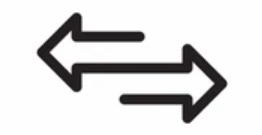
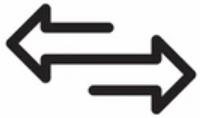
Updated Design Elements

Changed region(s): [[0.0, 0.0254, 0.99, 0.9915]]

diff --git a/language_translator.py b/language_translator.py
@@ -9,6 +9,7 @@ root.title("Language Translator")
 root.geometry("1080x400")
 
 
+
 #function to change country names in labels
 def label_change():
 	c = combo1.get()
@@ -37,14 +38,18 @@ def translate_now():
 		messagebox.showerror("googletrans","please try again")
 
 
+
+
+
+
 #icon
 image_icon = PhotoImage(file="trans_pic.png")
 root.iconphoto(False,image_icon)
 
 #arrow
-arrow_image = PhotoImage(file="arrow_pic.png")
-image_label=Label(root, image=arrow_image,width=150)
-image_label.place(x=460, y=50)
+arrow_image = PhotoImage(file="bl.png")
+image_label=Label(root, image=arrow_image,width=55, height=50)
+image_label.place(x=510, y=150)
 
 language = googletrans.LANGUAGES
 languageV = list(language.values())
@@ -57,7 +62,7 @@ combo1.set("English")
 
 
 #Label Under selection Bar
-label1 = Label(root, text = "English", font="segoe 30 bold", bg = "white", width = 18, bd = 5, 
+label1 = Label(root, text = "English", font="ComicSansMS 30 bold", bg = "skyblue", width = 18, bd = 5, 
 				relief = GROOVE)
 label1.place(x=10, y=50)
 
@@ -80,14 +85,14 @@ text1.configure(yscrollcommand=scrollbar1.set)
 
 
 
-#Right side language slection bar
+#Right side language selection bar
 combo2 = ttk.Combobox(root, values = languageV, font= "Roboto 14", state="r")
 combo2.place(x = 730, y = 20)
-combo2.set("Slect Language")
+combo2.set("Select Language")
 
 
 #Label Under selection Bar
-label2 = Label(root, text = "English", font="segoe 30 bold", bg = "white", width = 18, bd = 5, 
+label2 = Label(root, text = "English", font="segoe 30 bold", bg = "skyblue", width = 18, bd = 5, 
 				relief = GROOVE)
 label2.place(x=620, y=50)
 
@@ -111,7 +116,7 @@ text2.configure(yscrollcommand=scrollbar2.set)
 #translate button
 translate = Button(root,text = "Translate",font = "Roboto 15 bold italic",
 					activebackground = "purple", cursor="hand2", bd=5,
-					bg="blue",fg="white", command=translate_now)
+					bg="orange",fg="black", command=translate_now)
 
 translate.place(x = 480, y =250)
 
@@ -121,7 +126,7 @@ translate.place(x = 480, y =250)
 label_change()
 
 
-root.configure(bg = "white")
+root.configure(bg = "lightblue")
 root.mainloop()
 
 

diff --git a/README.md b/README.md
@@ -1,3 +1,21 @@
-# Translate
-An application that can translate multiple languages
+# LANGUAGE TRANSLATOR
 
+This is a **Python3** application which performs dual way multiple language translations utilizing the **Tkinter GUI Toolkit**.
+
+
+# How to Run Application 
+In order to run the application you must install the modules in your **Command-Line Terminal**.
+
+Use the following commands:
+> **pip install googletrans** 
+> **pip install textblob** 
+
+Proceed to the directory where the code is located in your machine and enter the following commands in your
+**Command-Line Terminal**.
+
+Use the following commands:
+> **python language_translator.py** 
+
+## Author & Contributors
+Author - github.com/Rid0y
+Contributor - github.com/ZU3AIR
